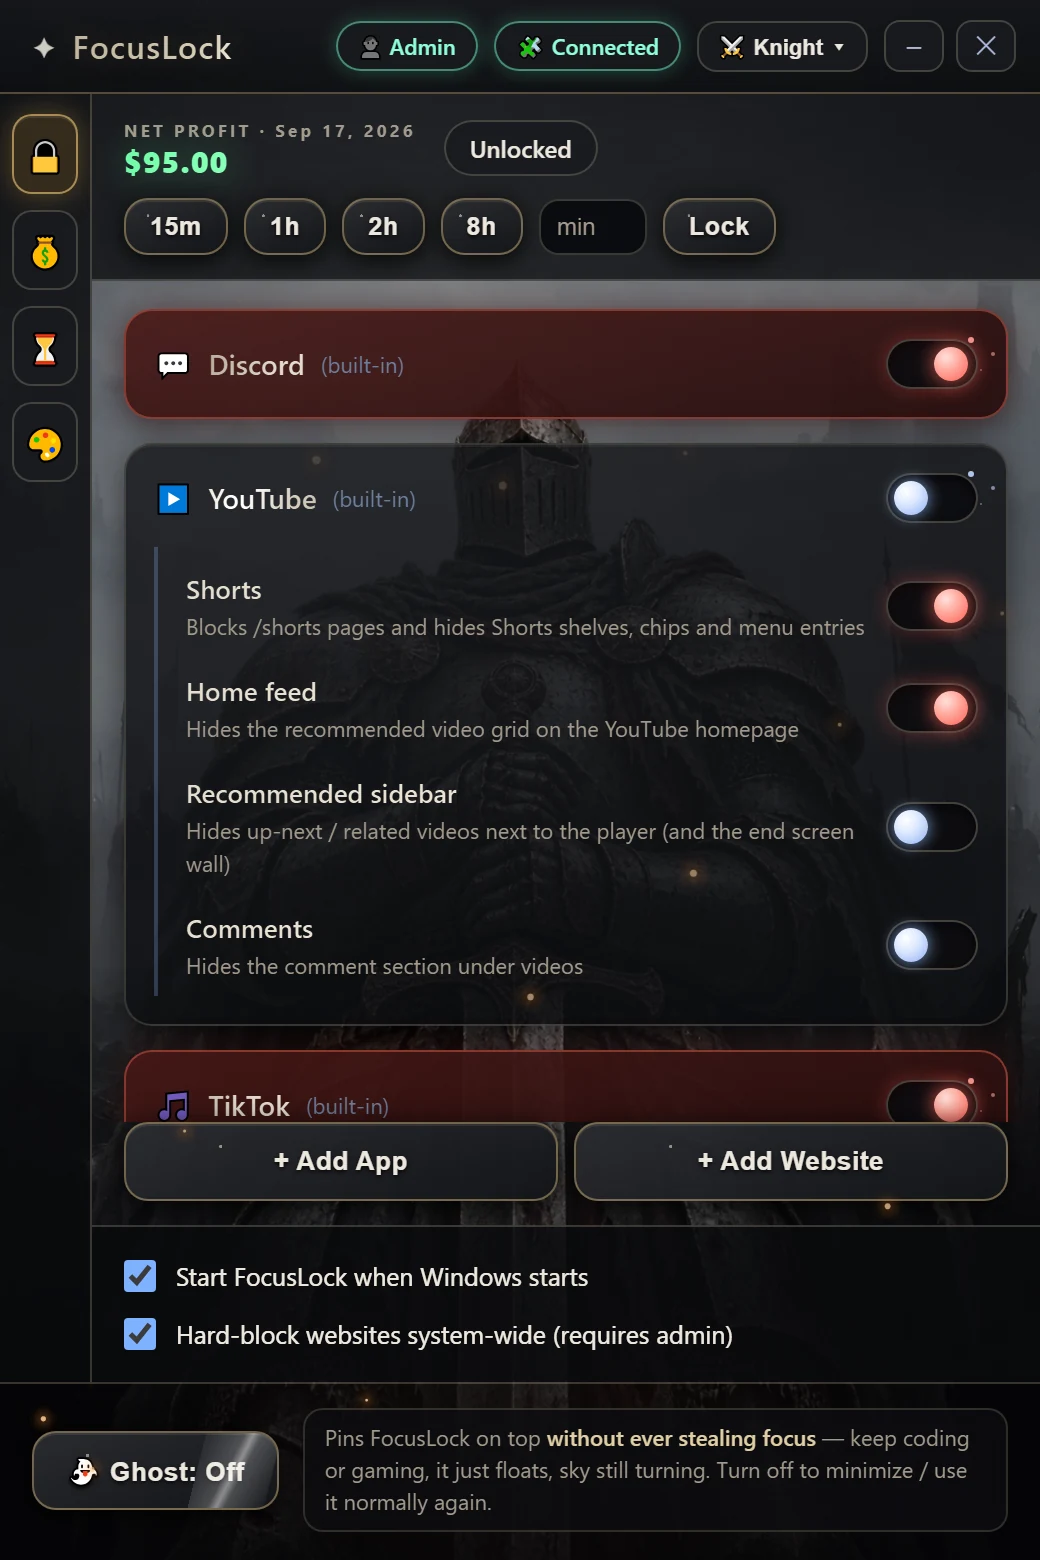
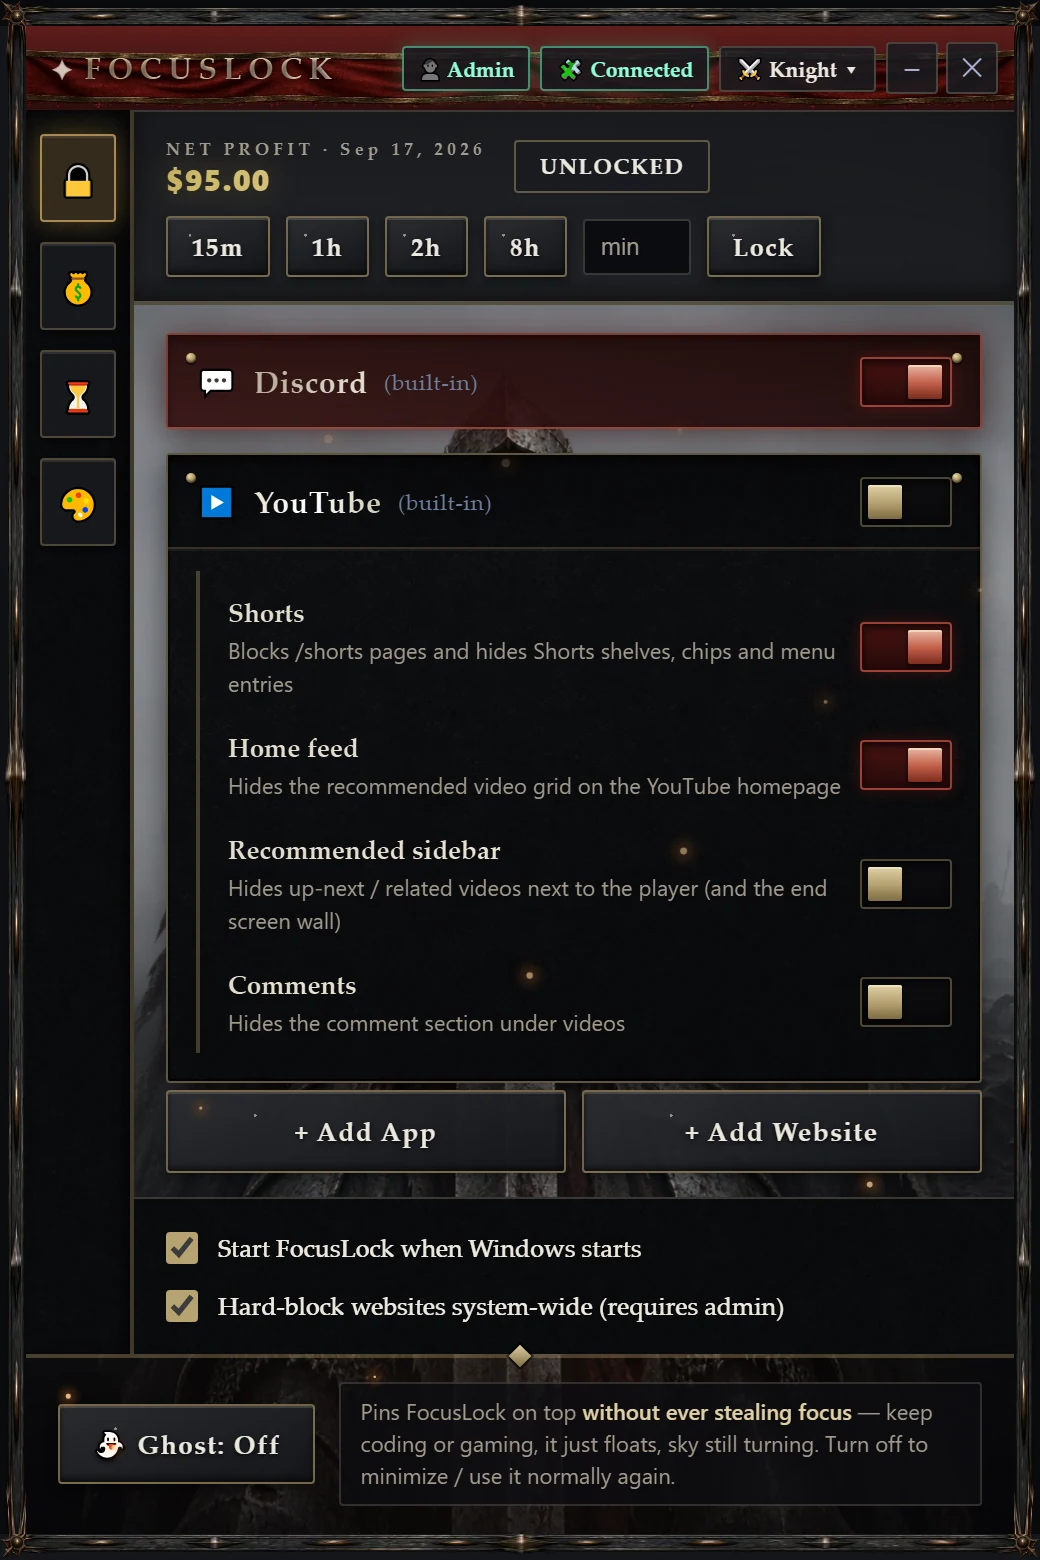
Website for FocusLock 2.2.0

diff --git a/index.html b/index.html
@@ -2,9 +2,12 @@
 <html lang="en">
 <head>
 <meta charset="UTF-8">
-<meta name="viewport" content="width=device-width, initial-scale=1">
+<!-- viewport-fit=cover so the page can paint under an iPhone's notch and home
+     indicator; the CSS then pads content back out with env(safe-area-inset-*) -->
+<meta name="viewport" content="width=device-width, initial-scale=1, viewport-fit=cover">
+<meta name="color-scheme" content="dark">
 <title>FocusLock — disable apps and websites until you turn them back on</title>
-<meta name="description" content="FocusLock disables the apps and websites that eat your day and keeps them disabled. A 1.5 MB native app for Windows — no browser bundled inside, no account, no tracking.">
+<meta name="description" content="FocusLock disables the apps and websites that eat your day and keeps them disabled. A small native app for Windows — no browser bundled inside, no account, no tracking.">
 <link rel="icon" href="assets/favicon.ico" sizes="any">
 <link rel="apple-touch-icon" href="assets/icon-256.png">
 <link rel="stylesheet" href="styles.css">
@@ -59,7 +62,7 @@
         <a class="btn btn-ghost btn-big" href="#install">How it works</a>
       </div>
       <p class="fineprint">
-        <span data-version>v2.1.0</span> · installer, no admin rights needed ·
+        <span data-version>v2.2.0</span> · installer, no admin rights needed ·
         installs like any normal program
       </p>
       <p class="platform-note" data-platform-note hidden>
@@ -73,7 +76,7 @@
   </section>
 
   <section class="strip">
-    <div class="strip-item"><strong data-size>1.5 MB</strong><span>download</span></div>
+    <div class="strip-item"><strong data-size>2.6 MB</strong><span>download</span></div>
     <div class="strip-item"><strong>No account</strong><span>nothing to sign up for</span></div>
     <div class="strip-item"><strong>Native</strong><span>no browser bundled inside</span></div>
     <div class="strip-item"><strong>Offline</strong><span>your data stays on your PC</span></div>
@@ -142,8 +145,8 @@
     </figure>
     <figure>
       <img src="assets/shot-knight.webp" width="520" height="780"
-           alt="The same app in its Knight theme: a towering armoured knight standing in fog behind blackened steel panels, with embers drifting up the window." loading="lazy">
-      <figcaption>Tired of space? The Knight theme swaps the night sky for a knight in the fog, ash still rising.</figcaption>
+           alt="The same app in its Knight theme: an armoured knight striding through fog, the whole window bound in an ornate iron frame with a crimson banner across the title bar and stone panels beneath it." loading="lazy">
+      <figcaption>The Knight theme doesn't just repaint it — stone panels, an iron frame, a banner, and a knight marching through the fog behind it all.</figcaption>
     </figure>
   </section>
 
@@ -222,9 +225,10 @@
     <details>
       <summary>Where is my data kept?</summary>
       <p>
-        In <code>%APPDATA%\FocusLock\config.json</code>: your blocks, settings and money
-        log, in plain JSON you can read or back up. Uninstalling leaves it alone, so
-        reinstalling picks up where you left off.
+        In one SQLite database, <code>%APPDATA%\FocusLock\focuslock.db</code> — your
+        blocks, settings and money log, openable with any SQLite tool if you want to
+        query or back it up. Uninstalling leaves it alone, so reinstalling picks up
+        where you left off.
       </p>
     </details>
     <details>
@@ -236,10 +240,17 @@
       </p>
     </details>
     <details>
-      <summary>Mac or Linux?</summary>
+      <summary>Mac, Linux or iPhone?</summary>
       <p>
-        Not today. The app blocking and hosts-file blocking are written against
-        Windows, so that's the only version that exists.
+        Not today — Windows is the only version that exists. The app blocking and
+        hosts-file blocking are written against Windows.
+      </p>
+      <p>
+        iOS is a bigger story: an iPhone app simply cannot close other apps or edit a
+        hosts file, so an iOS FocusLock would have to be rebuilt on Apple's Screen
+        Time framework, which covers apps with a lock screen instead of closing them
+        and never even tells the app which apps you picked. It's a different app
+        wearing the same name, and it isn't built yet.
       </p>
     </details>
     <details>
@@ -256,7 +267,7 @@
     <img src="assets/icon-256.png" width="96" height="96" alt="">
     <h2>Switch it off and get on with it</h2>
     <a class="btn btn-big" href="https://github.com/coderererere/focuslock-site/releases/latest/download/FocusLock-Setup-x64.exe" data-download>Download for Windows</a>
-    <p class="fineprint"><span data-version>v2.1.0</span> · Windows 10 &amp; 11, 64-bit</p>
+    <p class="fineprint"><span data-version>v2.2.0</span> · Windows 10 &amp; 11, 64-bit</p>
   </section>
 </main>
 

diff --git a/styles.css b/styles.css
@@ -24,7 +24,14 @@
    would leave hidden elements on screen. Keep `hidden` meaning hidden. */
 [hidden] { display: none !important; }
 
-html { scroll-behavior: smooth; }
+html {
+  scroll-behavior: smooth;
+  /* anchors land below the sticky header instead of behind it */
+  scroll-padding-top: 76px;
+  /* iOS enlarges text on rotation without this */
+  -webkit-text-size-adjust: 100%;
+  text-size-adjust: 100%;
+}
 
 body {
   background: var(--bg);
@@ -60,8 +67,11 @@ code {
   display: flex;
   align-items: center;
   gap: 24px;
-  padding: 12px max(16px, calc((100vw - var(--maxw)) / 2));
+  /* the max() keeps the bar clear of a notch in landscape */
+  padding: 12px max(16px, env(safe-area-inset-right), calc((100vw - var(--maxw)) / 2))
+           12px max(16px, env(safe-area-inset-left), calc((100vw - var(--maxw)) / 2));
   background: rgba(5, 7, 15, 0.82);
+  -webkit-backdrop-filter: blur(14px);
   backdrop-filter: blur(14px);
   border-bottom: 1px solid var(--stroke);
 }
@@ -601,6 +611,43 @@ h1 em,
   @keyframes rise {
     from { opacity: 0; transform: translateY(20px); }
     to   { opacity: 1; transform: none; }
+  }
+}
+
+/* ---------- touch screens ----------
+   A tap leaves :hover stuck on whatever was tapped, so the lifts belong to
+   real pointers only. Anything that is a tap target also needs to be big
+   enough to hit. */
+@media (hover: none) {
+  .btn:hover,
+  .card:hover,
+  .chip:hover,
+  .mtab:hover,
+  .topbar nav a:hover { transform: none; }
+}
+
+@media (pointer: coarse) {
+  .btn-small { padding: 12px 18px; }
+  summary { padding: 16px 0; }
+  .topbar nav a { padding: 8px 0; }
+}
+
+/* ---------- iPhone safe areas ----------
+   viewport-fit=cover lets the page paint under the notch and the home
+   indicator; these put the content back inside them. The centring term stays
+   in the max() so desktop layout is untouched. */
+@supports (padding: env(safe-area-inset-left)) {
+  .hero,
+  .section,
+  .closer {
+    padding-left: max(16px, env(safe-area-inset-left), calc((100vw - var(--maxw)) / 2));
+    padding-right: max(16px, env(safe-area-inset-right), calc((100vw - var(--maxw)) / 2));
+  }
+
+  footer {
+    padding-left: max(16px, env(safe-area-inset-left));
+    padding-right: max(16px, env(safe-area-inset-right));
+    padding-bottom: max(26px, env(safe-area-inset-bottom));
   }
 }
 
